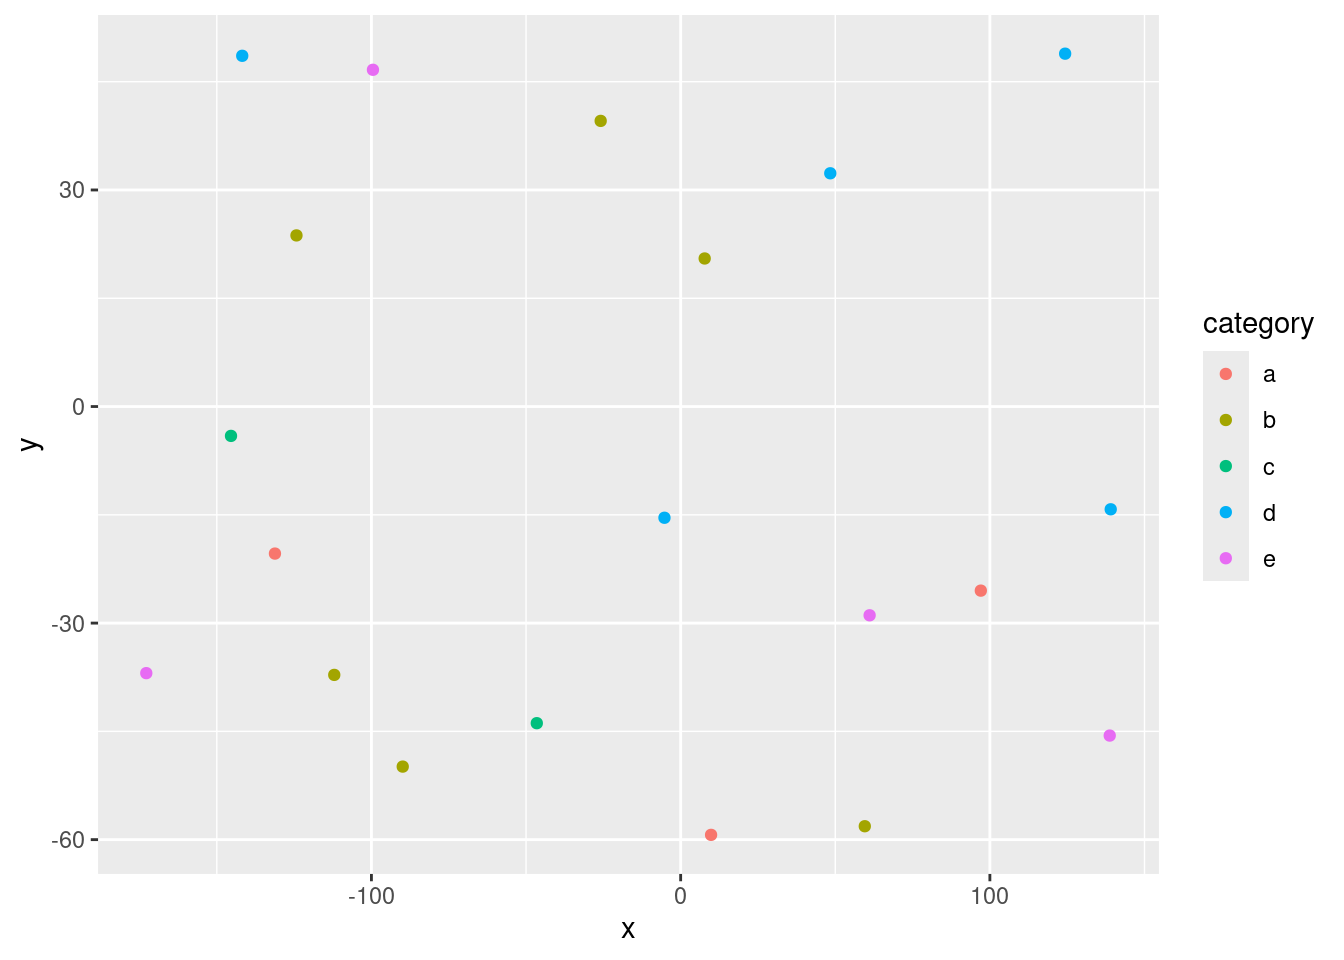
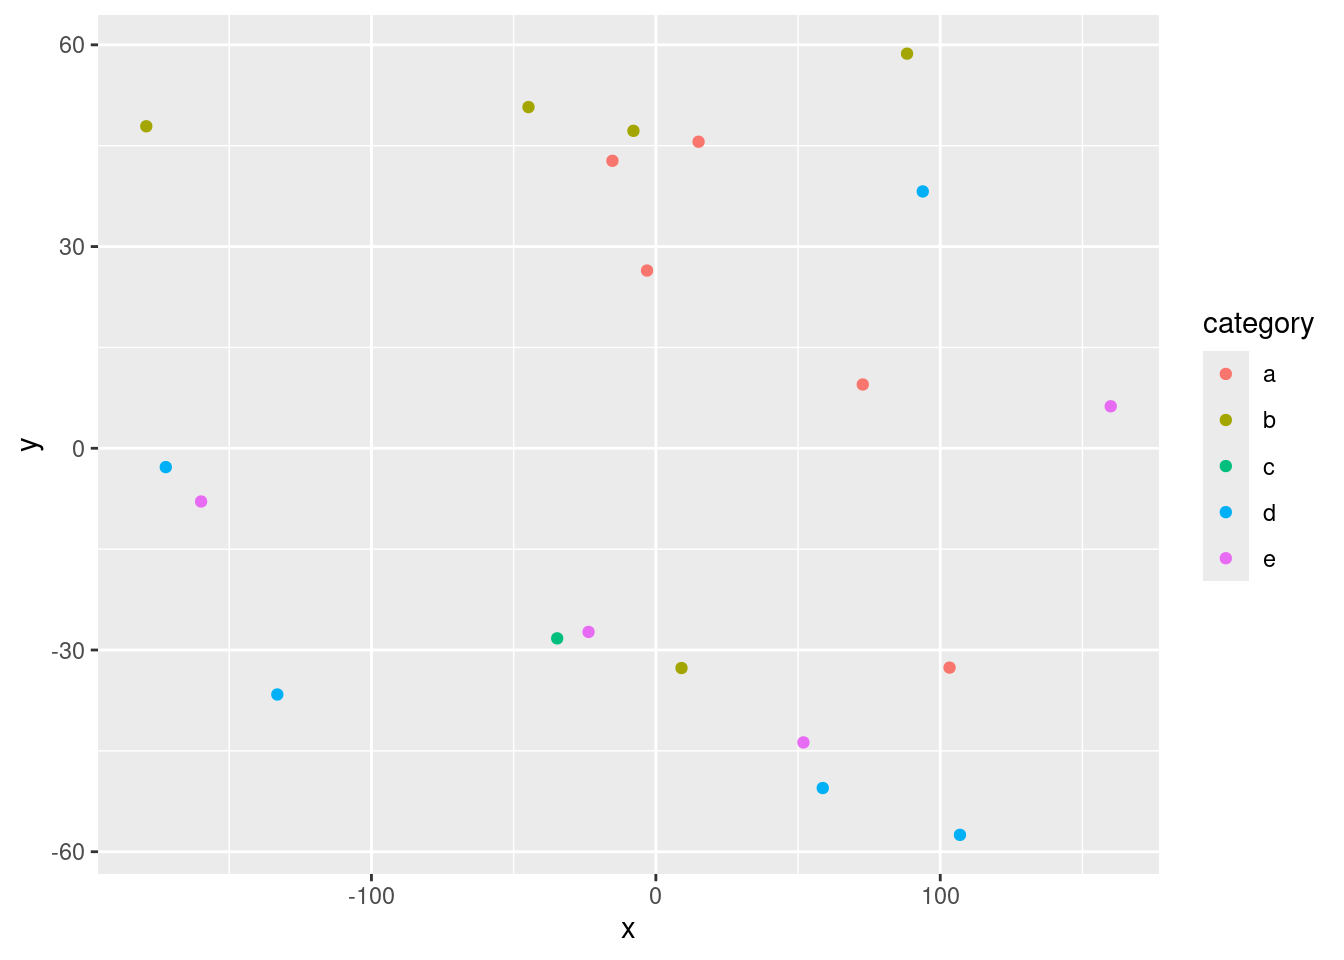
Built site for gh-pages

diff --git a/index.html b/index.html
@@ -265,74 +265,74 @@ pre > code.sourceCode > span > a:first-child::before { text-decoration: underlin
 </thead>
 <tbody>
 <tr class="odd">
-<td style="text-align: center;">139.08</td>
-<td style="text-align: center;">-14.24</td>
-<td style="text-align: center;">18.17</td>
-<td style="text-align: center;">d</td>
-<td style="text-align: center;">0.13</td>
+<td style="text-align: center;">-179.16</td>
+<td style="text-align: center;">47.89</td>
+<td style="text-align: center;">7.96</td>
+<td style="text-align: center;">b</td>
+<td style="text-align: center;">0.59</td>
 </tr>
 <tr class="even">
-<td style="text-align: center;">97.07</td>
-<td style="text-align: center;">-25.50</td>
-<td style="text-align: center;">19.90</td>
+<td style="text-align: center;">9.03</td>
+<td style="text-align: center;">-32.68</td>
+<td style="text-align: center;">9.75</td>
+<td style="text-align: center;">b</td>
+<td style="text-align: center;">-0.12</td>
+</tr>
+<tr class="odd">
+<td style="text-align: center;">106.93</td>
+<td style="text-align: center;">-57.49</td>
+<td style="text-align: center;">6.99</td>
+<td style="text-align: center;">d</td>
+<td style="text-align: center;">0.62</td>
+</tr>
+<tr class="even">
+<td style="text-align: center;">-7.88</td>
+<td style="text-align: center;">47.21</td>
+<td style="text-align: center;">9.43</td>
+<td style="text-align: center;">b</td>
+<td style="text-align: center;">-0.34</td>
+</tr>
+<tr class="odd">
+<td style="text-align: center;">103.27</td>
+<td style="text-align: center;">-32.62</td>
+<td style="text-align: center;">10.69</td>
 <td style="text-align: center;">a</td>
-<td style="text-align: center;">1.54</td>
-</tr>
-<tr class="odd">
-<td style="text-align: center;">-89.88</td>
-<td style="text-align: center;">-49.88</td>
-<td style="text-align: center;">16.42</td>
-<td style="text-align: center;">b</td>
-<td style="text-align: center;">0.91</td>
+<td style="text-align: center;">-1.20</td>
 </tr>
 <tr class="even">
-<td style="text-align: center;">7.77</td>
-<td style="text-align: center;">20.51</td>
-<td style="text-align: center;">12.27</td>
+<td style="text-align: center;">88.32</td>
+<td style="text-align: center;">58.68</td>
+<td style="text-align: center;">9.45</td>
 <td style="text-align: center;">b</td>
-<td style="text-align: center;">-1.06</td>
+<td style="text-align: center;">0.33</td>
 </tr>
 <tr class="odd">
-<td style="text-align: center;">-5.24</td>
-<td style="text-align: center;">-15.41</td>
-<td style="text-align: center;">11.46</td>
+<td style="text-align: center;">-172.31</td>
+<td style="text-align: center;">-2.80</td>
+<td style="text-align: center;">15.42</td>
 <td style="text-align: center;">d</td>
-<td style="text-align: center;">0.14</td>
+<td style="text-align: center;">-0.01</td>
 </tr>
 <tr class="even">
-<td style="text-align: center;">-46.52</td>
-<td style="text-align: center;">-43.87</td>
-<td style="text-align: center;">6.74</td>
-<td style="text-align: center;">c</td>
-<td style="text-align: center;">0.56</td>
+<td style="text-align: center;">72.76</td>
+<td style="text-align: center;">9.49</td>
+<td style="text-align: center;">17.22</td>
+<td style="text-align: center;">a</td>
+<td style="text-align: center;">0.42</td>
 </tr>
 <tr class="odd">
-<td style="text-align: center;">59.55</td>
-<td style="text-align: center;">-58.14</td>
-<td style="text-align: center;">15.16</td>
-<td style="text-align: center;">b</td>
-<td style="text-align: center;">-1.30</td>
+<td style="text-align: center;">15.02</td>
+<td style="text-align: center;">45.59</td>
+<td style="text-align: center;">11.72</td>
+<td style="text-align: center;">a</td>
+<td style="text-align: center;">0.43</td>
 </tr>
 <tr class="even">
-<td style="text-align: center;">48.39</td>
-<td style="text-align: center;">32.31</td>
-<td style="text-align: center;">19.79</td>
-<td style="text-align: center;">d</td>
-<td style="text-align: center;">0.69</td>
-</tr>
-<tr class="odd">
-<td style="text-align: center;">-25.86</td>
-<td style="text-align: center;">39.57</td>
-<td style="text-align: center;">14.90</td>
-<td style="text-align: center;">b</td>
-<td style="text-align: center;">1.37</td>
-</tr>
-<tr class="even">
-<td style="text-align: center;">-112.02</td>
-<td style="text-align: center;">-37.18</td>
-<td style="text-align: center;">11.26</td>
-<td style="text-align: center;">b</td>
-<td style="text-align: center;">0.51</td>
+<td style="text-align: center;">-3.10</td>
+<td style="text-align: center;">26.43</td>
+<td style="text-align: center;">9.41</td>
+<td style="text-align: center;">a</td>
+<td style="text-align: center;">-0.68</td>
 </tr>
 </tbody>
 </table>
@@ -354,8 +354,8 @@ pre > code.sourceCode > span > a:first-child::before { text-decoration: underlin
 <span id="cb5-4"><a href="#cb5-4" aria-hidden="true" tabindex="-1"></a>  <span class="fu">addPopups</span>(<span class="sc">~</span>x[<span class="dv">2</span>], <span class="sc">~</span>y[<span class="dv">2</span>], <span class="st">"Random popup"</span>)</span>
 <span id="cb5-5"><a href="#cb5-5" aria-hidden="true" tabindex="-1"></a>m  <span class="co"># a map with the default OSM tile layer</span></span></code><button title="Copy to Clipboard" class="code-copy-button"><i class="bi"></i></button></pre></div>
 <div class="cell-output-display">
-<div class="leaflet html-widget html-fill-item" id="htmlwidget-734abf4fbbba05a0bc88" style="width:100%;height:325px;"></div>
-<script type="application/json" data-for="htmlwidget-734abf4fbbba05a0bc88">{"x":{"options":{"crs":{"crsClass":"L.CRS.EPSG3857","code":null,"proj4def":null,"projectedBounds":null,"options":{}}},"calls":[{"method":"addTiles","args":["https://{s}.tile.openstreetmap.org/{z}/{x}/{y}.png",null,null,{"minZoom":0,"maxZoom":18,"tileSize":256,"subdomains":"abc","errorTileUrl":"","tms":false,"noWrap":false,"zoomOffset":0,"zoomReverse":false,"opacity":1,"zIndex":1,"detectRetina":false,"attribution":"&copy; <a href=\"https://openstreetmap.org/copyright/\">OpenStreetMap<\/a>,  <a href=\"https://opendatacommons.org/licenses/odbl/\">ODbL<\/a>"}]},{"method":"addCircleMarkers","args":[[-14.23658274114132,-25.50372038036585,-49.88166008144617,20.51080897450447,-15.40798841044307,-43.86662174016237,-58.14226820133626,32.31362856924534,39.57142568193376,-37.17718424275517,-20.37022509612143,48.5889601148665,-36.93405283614993,23.70622733607888,-28.92054651863873,-45.58214102871716,-59.33928086422384,46.65128381922841,48.88468771241605,-4.067610232159495],[139.076620247215,97.06917459145188,-89.87748004496098,7.76932661421597,-5.236571123823524,-46.52249492704868,59.54535629600286,48.38551757857203,-25.86358590982854,-112.0198465324938,-131.2005894072354,-141.778252478689,-172.8057112544775,-124.2397115193307,61.10985947772861,138.7553426530212,9.837946370244026,-99.50819182209671,124.3364214152098,-145.4106528963894],[18.17178893252276,19.89778519142419,16.42341834609397,12.26900935056619,11.45664344308898,6.73610330093652,15.15753565006889,19.78965890593827,14.89795194356702,11.26131107565016,13.05176406516694,17.48166433768347,6.158169578993693,7.15610068407841,11.93825038149953,13.07896748650819,12.69528981880285,9.152972208103165,5.61822053627111,13.41062943800353],null,null,{"interactive":true,"className":"","stroke":true,"color":["d","a","b","b","d","c","b","d","b","b","a","d","e","b","e","e","a","e","d","c"],"weight":5,"opacity":0.5,"fill":true,"fillColor":["d","a","b","b","d","c","b","d","b","b","a","d","e","b","e","e","a","e","d","c"],"fillOpacity":0.2},null,null,null,null,null,{"interactive":false,"permanent":false,"direction":"auto","opacity":1,"offset":[0,0],"textsize":"10px","textOnly":false,"className":"","sticky":true},null]},{"method":"addPopups","args":[-25.50372038036585,97.06917459145188,"Random popup",null,null,{"maxWidth":300,"minWidth":50,"autoPan":true,"keepInView":false,"closeButton":true,"className":""}]}],"limits":{"lat":[-59.33928086422384,48.88468771241605],"lng":[-172.8057112544775,139.076620247215]}},"evals":[],"jsHooks":[]}</script>
+<div class="leaflet html-widget html-fill-item" id="htmlwidget-d61c20d1409f20bde09c" style="width:100%;height:325px;"></div>
+<script type="application/json" data-for="htmlwidget-d61c20d1409f20bde09c">{"x":{"options":{"crs":{"crsClass":"L.CRS.EPSG3857","code":null,"proj4def":null,"projectedBounds":null,"options":{}}},"calls":[{"method":"addTiles","args":["https://{s}.tile.openstreetmap.org/{z}/{x}/{y}.png",null,null,{"minZoom":0,"maxZoom":18,"tileSize":256,"subdomains":"abc","errorTileUrl":"","tms":false,"noWrap":false,"zoomOffset":0,"zoomReverse":false,"opacity":1,"zIndex":1,"detectRetina":false,"attribution":"&copy; <a href=\"https://openstreetmap.org/copyright/\">OpenStreetMap<\/a>,  <a href=\"https://opendatacommons.org/licenses/odbl/\">ODbL<\/a>"}]},{"method":"addCircleMarkers","args":[[47.88681956939399,-32.68259720876813,-57.49334410764277,47.20767284743488,-32.61770638637245,58.68443517945707,-2.800171561539173,9.487438537180424,45.58720584958792,26.4315084926784,50.74254716746509,38.19512153975666,6.245773276314139,-28.2701766025275,42.75263247080147,-36.61509716883302,-43.74452920630574,-7.912569399923086,-50.528186224401,-27.31143054552376],[-179.1643468849361,9.025106448680162,106.9256789144129,-7.875894214957952,103.2726940512657,88.32383268512785,-172.3086653184146,72.75931424461305,15.01937328837812,-3.10268240980804,-44.77754370309412,93.85496081784368,159.9361885059625,-34.68577176332474,-15.2656599227339,-133.0930283479393,51.89478825777769,-159.8914300650358,58.68933473713696,-23.66123029030859],[7.957473729038611,9.749826990300789,6.985007236944512,9.428596338257194,10.68898873403668,9.448902640724555,15.41804625187069,17.21647321130149,11.72046747757122,9.406553742010146,7.105294951470569,6.470480873249471,9.737237036461011,5.692358064698055,13.30564004136249,15.93984491890296,17.02316725277342,19.37155734514818,19.60888669709675,10.67748960806057],null,null,{"interactive":true,"className":"","stroke":true,"color":["b","b","d","b","a","b","d","a","a","a","b","d","e","c","a","d","e","e","d","e"],"weight":5,"opacity":0.5,"fill":true,"fillColor":["b","b","d","b","a","b","d","a","a","a","b","d","e","c","a","d","e","e","d","e"],"fillOpacity":0.2},null,null,null,null,null,{"interactive":false,"permanent":false,"direction":"auto","opacity":1,"offset":[0,0],"textsize":"10px","textOnly":false,"className":"","sticky":true},null]},{"method":"addPopups","args":[-32.68259720876813,9.025106448680162,"Random popup",null,null,{"maxWidth":300,"minWidth":50,"autoPan":true,"keepInView":false,"closeButton":true,"className":""}]}],"limits":{"lat":[-57.49334410764277,58.68443517945707],"lng":[-179.1643468849361,159.9361885059625]}},"evals":[],"jsHooks":[]}</script>
 <p>Map of completely random data</p>
 </div>
 </div>
